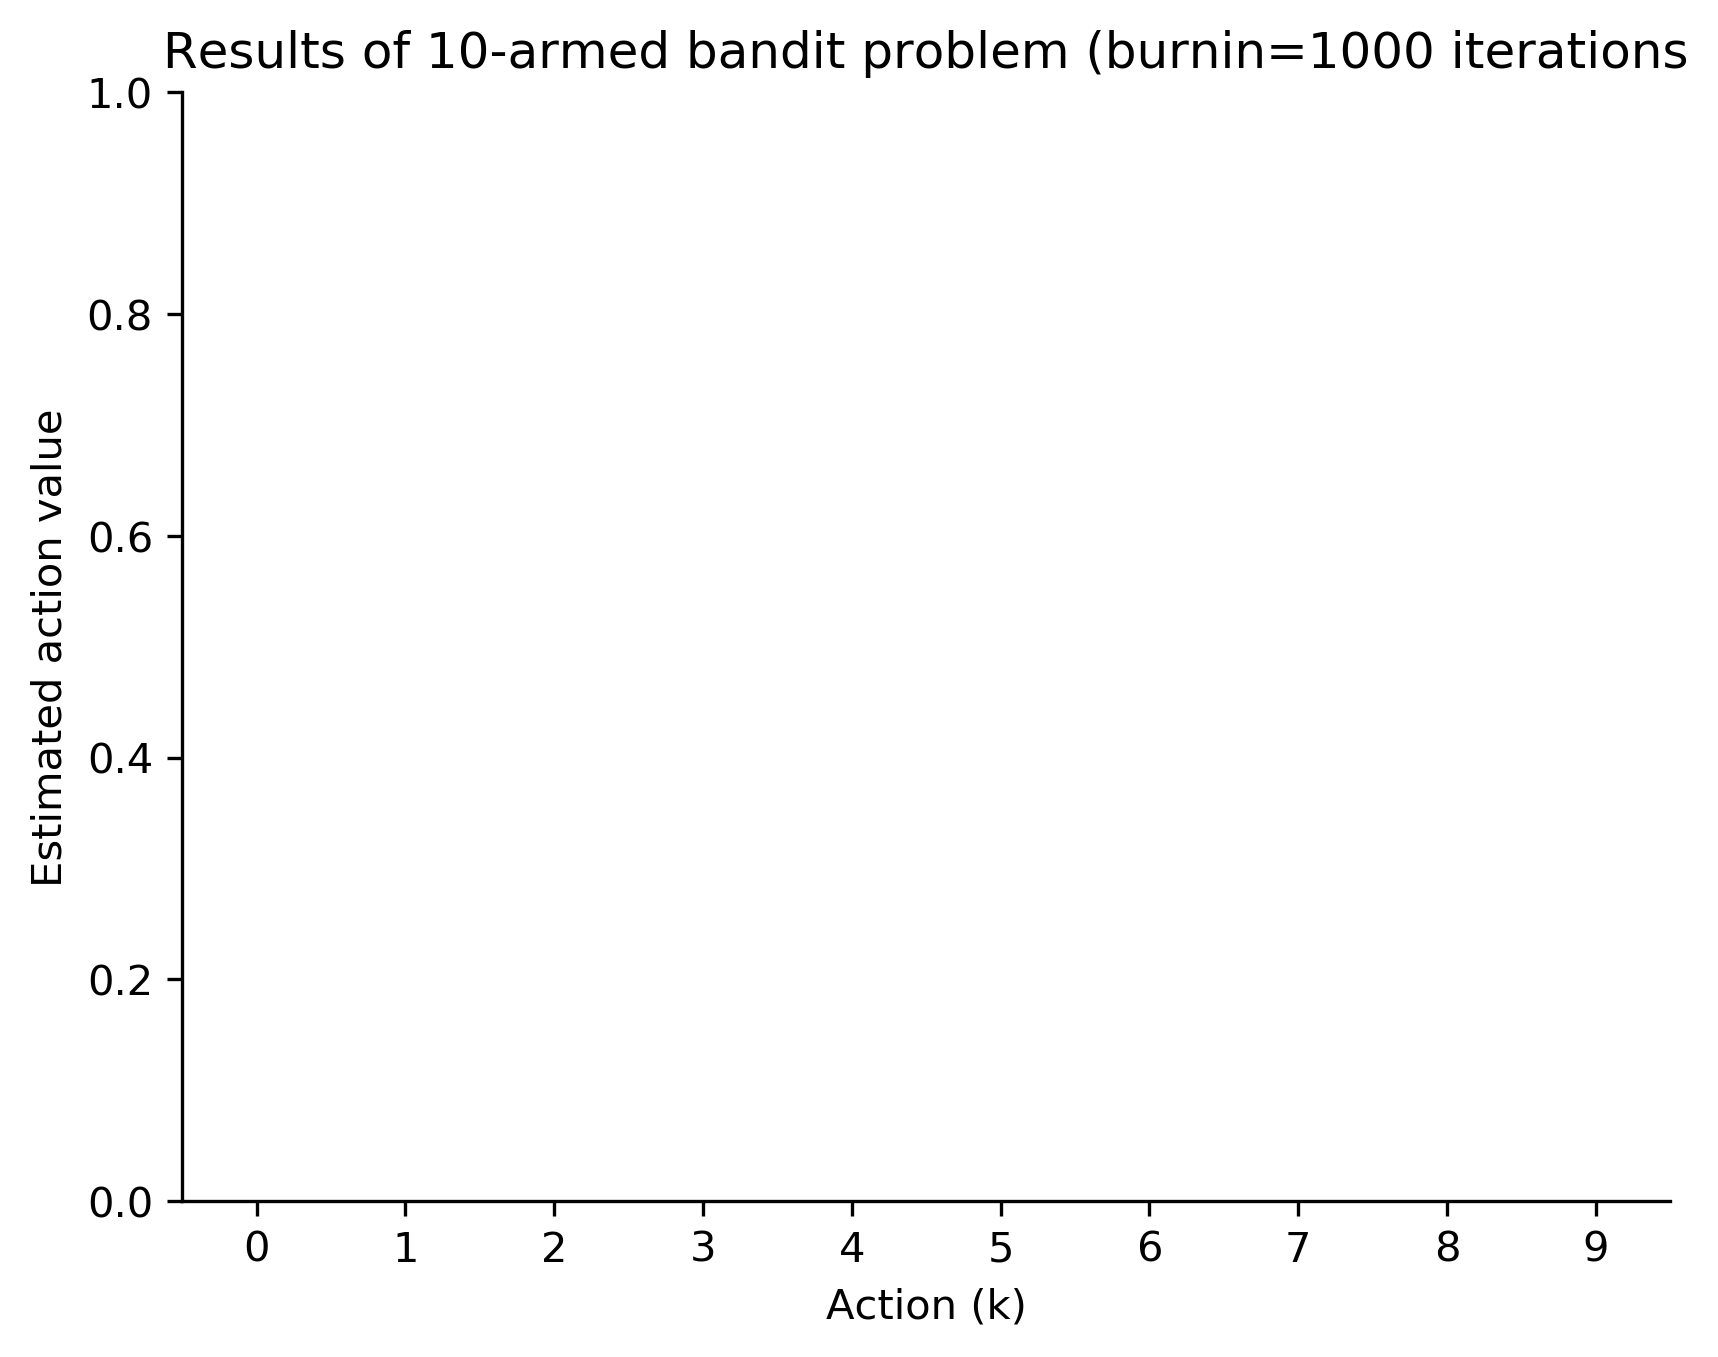
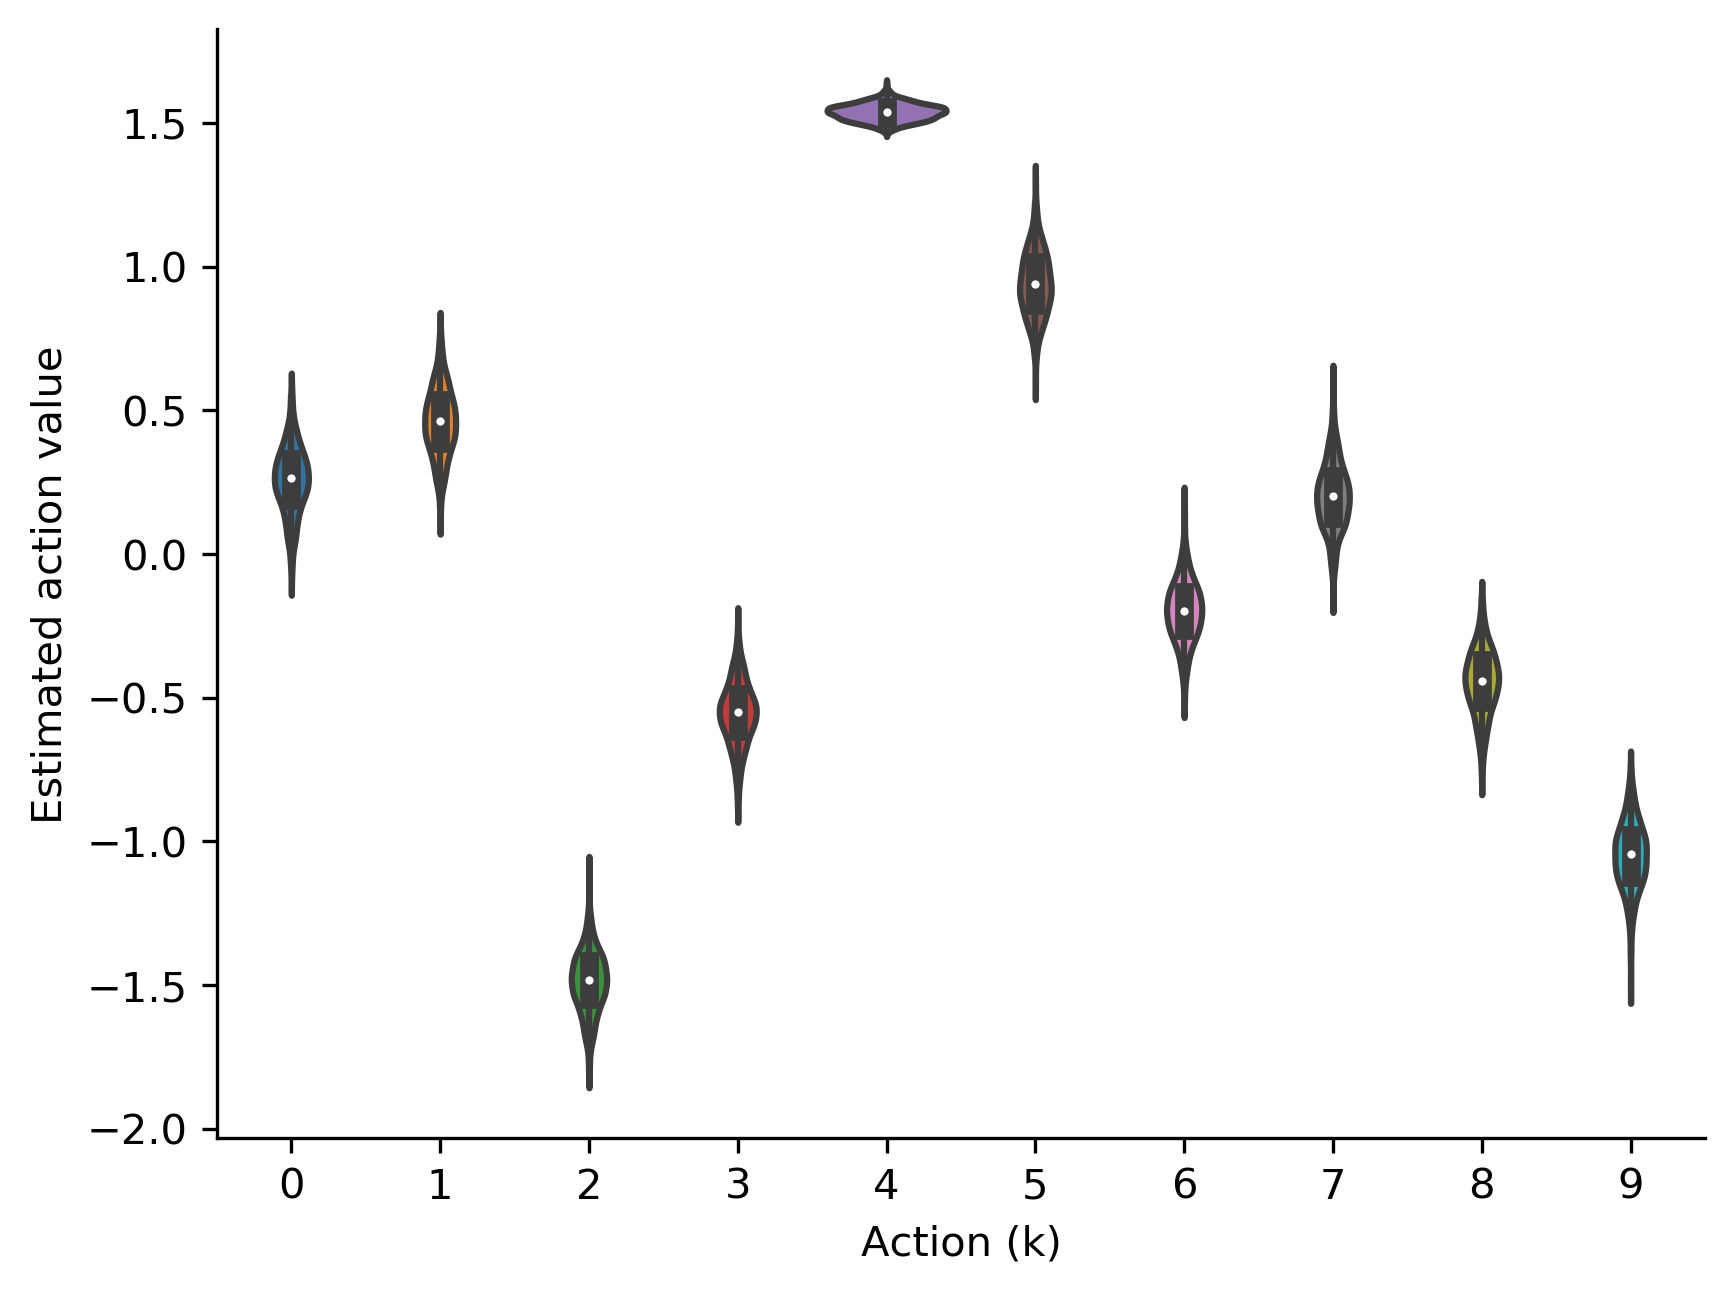
added gym gridworlds

diff --git a/SuttonBartoRL/Bandits/k_armed_bandit.py b/SuttonBartoRL/Bandits/k_armed_bandit.py
@@ -17,26 +17,27 @@ def incremental_epsilon_greedy_bandit(env, Q, eps):
         return env.action_space.sample()
 
 
-# @numba.jit(nopython=True)
 def learn(env, n=10, debug=False):
     """
-
     :param env: A bandit environment from the gym_bandits package
     :param n: the number of individual bandit problems to run
     :return:
     """
+
     k = env.action_space.n  # how many arms
     all_qs = np.zeros((n, k))  # place to store learnt action values
     for i in range(n):
         eps = 1
         Q = np.zeros(k)
         N = np.zeros(k)  # time step counter
-        env.reset()
         for t in range(2000):
-            action = incremental_epsilon_greedy_bandit(env, Q, eps=eps)
+            r = np.random.uniform()
+            if r > eps:
+                action = np.argmax(Q)
+            else:
+                action = env.action_space.sample()
             # observation always [0] and done always True so can be ignored
-            # info always {} so can also be ignored
-            _, reward, _, _ = env.step(action)
+            _, reward, _, info = env.step(action)
 
             # update N for incremental average
             N[action] += 1
@@ -51,7 +52,8 @@ def learn(env, n=10, debug=False):
                 print(f"action: {action}")
                 print(f"reward: {reward}")
                 print(f"N[action]: {N[action]}")
-                print(f"Q[action]: {Q[action]}\n")
+                print(f"Q[action]: {Q[action]}")
+                print(f"info: {info}\n")
 
         all_qs[i, :] = Q
 
@@ -59,11 +61,37 @@ def learn(env, n=10, debug=False):
     return all_qs
 
 
-def plot(Q, burnin=1000, filename=None):
+def bandit_problem_epsilon_greedy_agent(env, n=1000):
+    k = env.action_space.n  # how many arms
+    all_qs = np.zeros((n, k))  # place to store learnt action values
+    for i in range(n):
+        eps = 1
+        Q = np.zeros(k)
+        N = np.zeros(k)  # time step counter
+        for t in range(2000):
+            # this is our agent being epsilon greedy
+            r = np.random.uniform()
+            if r > eps:
+                action = np.argmax(Q)
+            else:
+                action = env.action_space.sample()
+            # observation always [0] and done always True so can be ignored
+            _, reward, _, info = env.step(action)
+            # update N for incremental average
+            N[action] += 1
+            # update rule, derived from average update rule        return [seed]
+            Q[action] = Q[action] + (1 / N[action]) * (reward - Q[action])
+            # incrementally dereasing epsilon
+            eps *= 0.999
+        all_qs[i, :] = Q
+    return all_qs
+
+
+def plot(Q, burnin=500, filename=None):
     fig = plt.figure()
-    sns.violinplot(data=Q[burnin:, :])
+    sns.violinplot(data=Q[burnin:, :], fig=fig)
     sns.despine(fig=fig, top=True, right=True)
-    plt.title('Results of 10-armed bandit problem (burnin={} iterations'.format(burnin))
+    # plt.title('Results of 10-armed bandit problem (burnin={} iterations)'.format(burnin))
     plt.xlabel('Action (k)')
     plt.ylabel('Estimated action value')
     if filename:
@@ -81,7 +109,7 @@ if __name__ == '__main__':
     print(estimated_action_values)
 
     print(env.p_dist)
-    print(env.r_dist)
+    print([round(i, 3) for i, j in env.r_dist])
 
     fname = os.path.join(BANDITS_DIRECTORY, '10ArmedBanditResults.png')
     plot(estimated_action_values, filename=fname)

diff --git a/gym_gridworlds/envs/gridworld_env.py b/gym_gridworlds/envs/gridworld_env.py
@@ -1,0 +1,39 @@
+import gym
+from gym import spaces
+import numpy
+
+
+class GridworldEnv(gym.Env):
+    reward_range = (-1, 0)
+    action_space = spaces.Discrete(4)
+    # although there are 2 terminal squares in the grid
+    # they are considered as 1 state
+    # therefore observation is between 0 and 14
+    observation_space = spaces.Discrete(15)
+
+    def __init__(self):
+        gridworld = numpy.arange(
+                self.observation_space.n + 1
+                ).reshape((4, 4))
+        gridworld[-1, -1] = 0
+        # state transition matrix
+        self.P = numpy.zeros((self.action_space.n,
+                              self.observation_space.n,
+                              self.observation_space.n))
+        # any action taken in terminal state has no effect
+        self.P[:, 0, 0] = 1
+
+        for s in gridworld.flat[1:-1]:
+            row, col = numpy.argwhere(gridworld == s)[0]
+            for a, d in zip(
+                    range(self.action_space.n),
+                    [(-1, 0), (0, 1), (1, 0), (0, -1)]
+                    ):
+                next_row = max(0, min(row + d[0], 3))
+                next_col = max(0, min(col + d[1], 3))
+                s_prime = gridworld[next_row, next_col]
+                self.P[a, s, s_prime] = 1
+
+        self.R = numpy.full((self.action_space.n,
+                             self.observation_space.n), -1)
+        self.R[:, 0] = 0

diff --git a/gym_gridworlds/envs/windy_gridworld_env.py b/gym_gridworlds/envs/windy_gridworld_env.py
@@ -1,0 +1,43 @@
+import gym
+from gym import spaces
+
+
+class WindyGridworldEnv(gym.Env):
+    def __init__(self):
+        self.height = 7
+        self.width = 10
+        self.action_space = spaces.Discrete(4)
+        self.observation_space = spaces.Tuple((
+                spaces.Discrete(self.height),
+                spaces.Discrete(self.width)
+                ))
+        self.moves = {
+                0: (-1, 0),  # up
+                1: (0, 1),   # right
+                2: (1, 0),   # down
+                3: (0, -1),  # left
+                }
+
+        # begin in start state
+        self.reset()
+
+    def step(self, action):
+        if self.S[1] in (3, 4, 5, 8):
+            self.S = self.S[0] - 1, self.S[1]
+        elif self.S[1] in (6, 7):
+            self.S = self.S[0] - 2, self.S[1]
+
+        x, y = self.moves[action]
+        self.S = self.S[0] + x, self.S[1] + y
+
+        self.S = max(0, self.S[0]), max(0, self.S[1])
+        self.S = (min(self.S[0], self.height - 1),
+                  min(self.S[1], self.width - 1))
+
+        if self.S == (3, 7):
+            return self.S, -1, True, {}
+        return self.S, -1, False, {}
+
+    def reset(self):
+        self.S = (3, 0)
+        return self.S

diff --git a/gym_gridworlds/envs/cliff_env.py b/gym_gridworlds/envs/cliff_env.py
@@ -1,0 +1,41 @@
+import gym
+from gym import spaces
+
+
+class CliffEnv(gym.Env):
+    def __init__(self):
+        self.height = 4
+        self.width = 12
+        self.action_space = spaces.Discrete(4)
+        self.observation_space = spaces.Tuple((
+                spaces.Discrete(self.height),
+                spaces.Discrete(self.width)
+                ))
+        self.moves = {
+                0: (-1, 0),   # up
+                1: (0, 1),   # right
+                2: (1, 0),  # down
+                3: (0, -1),  # left
+                }
+
+        # begin in start state
+        self.reset()
+
+    def step(self, action):
+        x, y = self.moves[action]
+        self.S = self.S[0] + x, self.S[1] + y
+
+        self.S = max(0, self.S[0]), max(0, self.S[1])
+        self.S = (min(self.S[0], self.height - 1),
+                  min(self.S[1], self.width - 1))
+
+        if self.S == (self.height - 1, self.width - 1):
+            return self.S, -1, True, {}
+        elif self.S[1] != 0 and self.S[0] == self.height - 1:
+            # the cliff
+            return self.reset(), -100, False, {}
+        return self.S, -1, False, {}
+
+    def reset(self):
+        self.S = (3, 0)
+        return self.S

diff --git a/gym_gridworlds/__init__.py b/gym_gridworlds/__init__.py
@@ -1,0 +1,14 @@
+from gym.envs.registration import register
+
+register(
+        id='Gridworld-v0',
+        entry_point='gym_gridworlds.envs:GridworldEnv',
+        )
+register(
+        id='WindyGridworld-v0',
+        entry_point='gym_gridworlds.envs:WindyGridworldEnv',
+        )
+register(
+        id='Cliff-v0',
+        entry_point='gym_gridworlds.envs:CliffEnv',
+        )

diff --git a/gym_gridworlds/envs/__init__.py b/gym_gridworlds/envs/__init__.py
@@ -1,0 +1,3 @@
+from gym_gridworlds.envs.gridworld_env import GridworldEnv   # noqa
+from gym_gridworlds.envs.windy_gridworld_env import WindyGridworldEnv    # noqa
+from gym_gridworlds.envs.cliff_env import CliffEnv   # noqa
